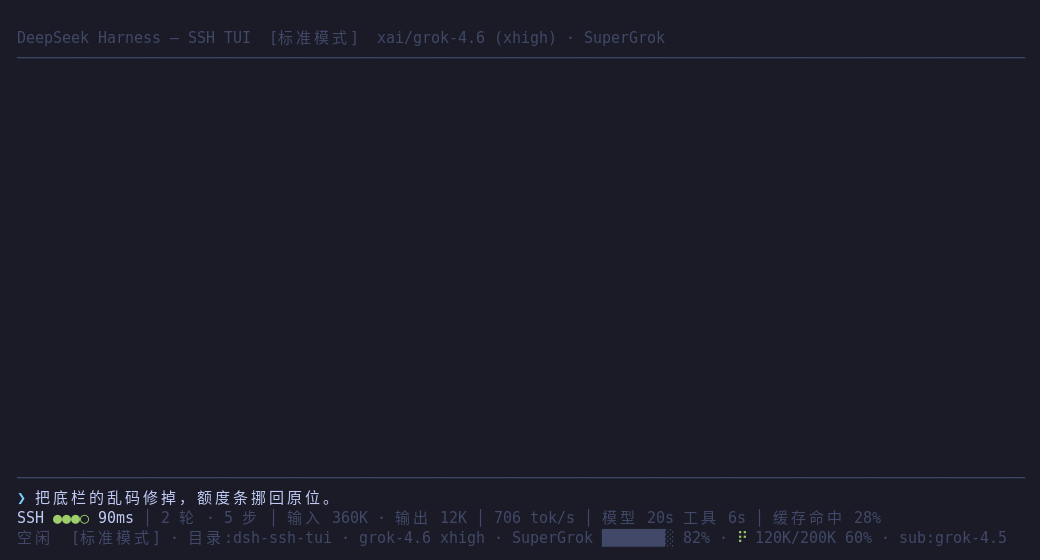
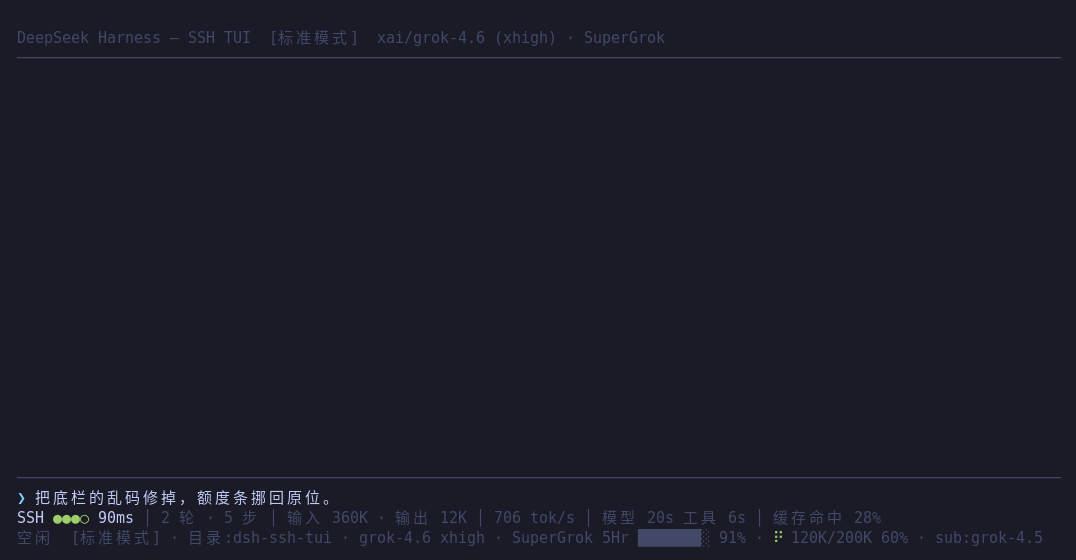
Show the quota window and the model name, not the full route
Three things the status line was spending cells on:

- Quota now shows a short plan badge — `SuperGrok`, `OC·GO` (OpenCode Go),
  `CC·GOAT` (Command Code) — and the window the number belongs to, tagged
  `5Hr`/`1Wk`/`1Mo`. The default window is the *finest* one the provider
  reports, not the tightest percent: a five-hour cap at 3% is what a working
  session hits, and a monthly window at 12% was hiding it. `tightestQuotaWindow`
  still drives the alerts and the refresh cadence. The tags are fixed technical
  strings rather than localized words, so they stay readable in a screenshot.
- Narrowing trades the badge, never the tag: `SuperGrok 5Hr ███ 82%` becomes
  `5Hr ███ 82%`.
- A `provider/model` id (`xai/grok-4.6`) shows as the model name alone. The
  header and `/status` keep the full route, and a `sub:` route keeps its
  provider because it is a different route from the parent's.

Frames: `docs/screenshots/footer-quota.png` (SuperGrok / OC·GO / CC·GOAT /
narrow) and `footer-model-route.png`; the acceptance script renders 10.
Mutations verified red: tightest-instead-of-finest, unnormalized
command-code badge, tag dropped with the badge, weekly tagged `1Mo`, model
route kept, and first-segment extraction.

Changed region(s): [[0.0, 0.85, 0.9538, 0.9714], [0.1846, 0.0607, 0.6462, 0.0911], [0.0308, 0.0607, 0.1538, 0.0911]]

diff --git a/src/footer.ts b/src/footer.ts
@@ -5,7 +5,7 @@
 import { t } from './i18n/index.js'
 import { pinEmojiCells, truncateAnsiToWidth, visibleWidth } from './term-text.js'
 import { describeSubagentFit } from './subagent-model.js'
-import { formatQuotaStatusLine, type QuotaSnapshot } from './quota.js'
+import { formatQuotaStatusLine, type QuotaPeriod, type QuotaSnapshot, type QuotaSource } from './quota.js'
 import type { DisconnectPolicyName } from './transcript-types.js'
 
 export const WAIT_INDICATOR_MS = 8000
@@ -344,6 +344,8 @@ export interface FooterStatusInput {
   subEffort?: string
   quotaCode?: string
   quotaPercent?: number
+  /** Which rolling window `quotaPercent` belongs to: tagged `5Hr`/`1Wk`/`1Mo`. */
+  quotaPeriod?: QuotaPeriod
   contextChip?: string
   balanceText?: string
   search?: { index: number; total: number }
@@ -397,18 +399,40 @@ export function subagentRouteLabel(model: string, provider?: string, effort?: st
   return `sub:${route}${suffix}`
 }
 
+/**
+ * The model as the footer shows it: the model's own name, without a
+ * `provider/model` route prefix.
+ *
+ * Some providers carry the vendor in the model id (`xai/grok-4.6`,
+ * `deepseek-official/deepseek-v4-flash`). The route is worth a row in the header
+ * and in `/status`; in the status line it spent cells on something the reader
+ * already knows, and it pushed the quota badge towards the drop edge.
+ * `sub:` routes keep their provider on purpose — that is a *different* route
+ * from the parent's, and hiding it would make the two indistinguishable.
+ */
+export function shortModelName(model: string): string {
+  const id = model.trim()
+  const slash = id.lastIndexOf('/')
+  if (slash < 0) return id
+  const tail = id.slice(slash + 1).trim()
+  // A trailing slash (or a bare `/`) leaves nothing to show: keep the original.
+  return tail === '' ? id : tail
+}
+
 export function footerIdentityParts(input: FooterStatusInput): string[] {
   const parts: string[] = []
   if (input.compactView === true) parts.push(`[${t('view.footerCompact')}]`)
   if (input.preset !== undefined && input.preset !== '') parts.push(`[${input.preset}]`)
   if (input.cwdLabel !== undefined && input.cwdLabel !== '') parts.push(input.cwdLabel)
-  const model = input.effort === undefined ? input.model : `${input.model} ${input.effort}`
+  const modelName = shortModelName(input.model)
+  const effort = input.effort === undefined || input.effort.trim() === '' ? '' : input.effort.trim()
+  const model = [modelName, effort].filter(part => part !== '').join(' ')
   if (model !== '') parts.push(model)
   if (input.balanceText !== undefined && input.balanceText !== '') {
     parts.push(input.balanceText)
   }
   if (input.quotaPercent !== undefined) {
-    parts.push(formatFooterQuota(input.quotaPercent, input.quotaCode))
+    parts.push(formatFooterQuota(input.quotaPercent, input.quotaCode, input.quotaPeriod))
   }
   if (input.contextChip !== undefined && input.contextChip !== '') parts.push(input.contextChip)
   // The subagent route is what every child inherits, so it is always on the
@@ -424,10 +448,51 @@ export function footerIdentityParts(input: FooterStatusInput): string[] {
   return parts
 }
 
-/** `SuperGrok ███████░ 82%`, or just the bar + percent when `code` is omitted. */
-export function formatFooterQuota(percent: number, code?: string): string {
+/**
+ * `SuperGrok 5Hr ███████░ 82%` — short plan badge, the window the number belongs
+ * to, then the bar.
+ *
+ * The tags are fixed technical labels (`5Hr` / `1Wk` / `1Mo`) rather than
+ * localized words: they sit in a footer that is already fighting for cells, and
+ * a window tag that changes with the locale would be unreadable in a screenshot
+ * or a bug report. Everything else about the window (label, reset time, detail)
+ * stays in `/quota`.
+ */
+export function formatFooterQuota(percent: number, code?: string, period?: QuotaPeriod): string {
   const bar = `${formatQuotaBar(percent)} ${percent.toFixed(0)}%`
-  return code !== undefined && code.trim() !== '' ? `${code.trim()} ${bar}` : bar
+  const tag = quotaWindowTag(period)
+  const name = code === undefined ? '' : code.trim()
+  return [name, tag, bar].filter(part => part !== '').join(' ')
+}
+
+/** Fixed-width tag for the window a footer quota number belongs to. */
+export function quotaWindowTag(period: QuotaPeriod | undefined): string {
+  if (period === 'hourly') return '5Hr'
+  if (period === 'weekly') return '1Wk'
+  if (period === 'monthly') return '1Mo'
+  return ''
+}
+
+/**
+ * The badge the footer shows instead of the billing plan's own label:
+ * `SuperGrok`, `OC·GO` (OpenCode Go), `CC·GOAT` (Command Code Goat).
+ *
+ * The long names live in `/quota`; this one has to survive next to a model id.
+ * Without a `source` (a hand-built snapshot) the plan label is matched instead,
+ * so old callers and tests keep a sensible badge.
+ */
+export function shortQuotaPlanName(snapshot: { plan: string; source?: QuotaSource }): string {
+  const plan = snapshot.plan.trim()
+  if (snapshot.source === 'supergrok') return 'SuperGrok'
+  if (snapshot.source === 'opencode-go') return 'OC·GO'
+  if (snapshot.source === 'command-code') {
+    const tier = plan === '' || plan.toLowerCase() === 'command code' ? '' : plan.toUpperCase()
+    return tier === '' ? 'CC' : `CC·${tier}`
+  }
+  if (/supergrok/iu.test(plan)) return 'SuperGrok'
+  if (/opencode/iu.test(plan)) return 'OC·GO'
+  if (/goat/iu.test(plan)) return 'CC·GOAT'
+  return plan
 }
 
 /**
@@ -438,9 +503,12 @@ export function dropFooterQuotaPlanName(parts: string[]): boolean {
   for (let index = 0; index < parts.length; index++) {
     const part = parts[index]
     if (part === undefined) continue
-    const barAt = part.search(/ [█░]+ \d+%$/)
+    const barAt = part.search(/[█░]{8} \d+%$/)
     if (barAt <= 0) continue
-    parts[index] = part.slice(barAt + 1)
+    // The window tag is the last thing before the bar and survives the badge:
+    // `SuperGrok 5Hr ███ 82%` narrows to `5Hr ███ 82%`, not to a bare bar.
+    const tag = /(?:5Hr|1Wk|1Mo)$/u.exec(part.slice(0, barAt).trimEnd())?.[0]
+    parts[index] = tag === undefined ? part.slice(barAt) : `${tag} ${part.slice(barAt)}`
     return true
   }
   return false

diff --git a/src/quota.ts b/src/quota.ts
@@ -200,6 +200,13 @@ function formatOpenCodeGoWindow(label: string, value: unknown): string {
 
 export type QuotaPeriod = 'hourly' | 'weekly' | 'monthly' | 'unknown'
 
+/**
+ * Which billing surface a snapshot came from. The footer shows a short plan
+ * badge (`SuperGrok` / `OC·GO` / `CC·GOAT`), and the provider string alone is
+ * not enough to tell the three apart.
+ */
+export type QuotaSource = 'supergrok' | 'opencode-go' | 'command-code'
+
 export interface QuotaWindow {
   label: string
   period: QuotaPeriod
@@ -213,6 +220,8 @@ export interface QuotaWindow {
 export interface QuotaSnapshot {
   provider: string
   plan: string
+  /** Billing surface, for the footer's short badge. Absent on hand-built snapshots. */
+  source?: QuotaSource
   windows: QuotaWindow[]
 }
 
@@ -303,6 +312,7 @@ export function parseSuperGrokBilling(payload: unknown): QuotaSnapshot {
   return {
     provider: 'xai',
     plan,
+    source: 'supergrok',
     windows: [{
       label: period === 'monthly' ? t('quota.windowMonthly') : t('quota.windowWeekly'),
       period: period === 'unknown' ? 'weekly' : period,
@@ -331,7 +341,7 @@ export function parseOpenCodeGoQuota(payload: unknown, provider: string): QuotaS
   push(t('quota.windowWeekly'), 'weekly', usage.weekly)
   push(t('quota.windowMonthly'), 'monthly', usage.monthly)
   if (windows.length === 0) throw new Error(t('quota.unrecognized'))
-  return { provider, plan: 'OpenCode Go', windows }
+  return { provider, plan: 'OpenCode Go', source: 'opencode-go', windows }
 }
 
 /** One Command Code rolling window: `{ cap, used, resetAt }` off /alpha/billing/credits. */
@@ -448,7 +458,7 @@ export function parseCommandCodeQuota(payload: CommandCodeQuotaPayload, provider
     })
   }
   if (windows.length === 0) throw new Error(t('quota.unrecognized'))
-  return { provider, plan: commandCodePlanLabel(payload.subscription), windows }
+  return { provider, plan: commandCodePlanLabel(payload.subscription), source: 'command-code', windows }
 }
 
 export function formatQuotaSnapshot(snapshot: QuotaSnapshot): string {
@@ -489,6 +499,25 @@ export function tightestQuotaWindow(snapshot: QuotaSnapshot): QuotaWindow | unde
   return snapshot.windows.reduce<QuotaWindow | undefined>((best, window) => {
     if (best === undefined || window.remainingPercent < best.remainingPercent) return window
     return best
+  }, undefined)
+}
+
+/**
+ * The window the footer shows by default: the *finest* one, not the tightest.
+ *
+ * A five-hour cap is what runs out first inside a working session, so it is the
+ * number a glance should find; a monthly window at 12% would otherwise hide a
+ * five-hour window at 3%. Ties (and a provider that reports only one window)
+ * fall back to the lowest remaining percent.
+ */
+export function preferredQuotaWindow(snapshot: QuotaSnapshot): QuotaWindow | undefined {
+  // `unknown` ranks last, so a provider that reports one unnamed window never
+  // shadows a named one; it is only shown when it is all there is.
+  const rank: Record<QuotaPeriod, number> = { hourly: 0, weekly: 1, monthly: 2, unknown: 3 }
+  return snapshot.windows.reduce<QuotaWindow | undefined>((best, window) => {
+    if (best === undefined) return window
+    if (rank[window.period] !== rank[best.period]) return rank[window.period] < rank[best.period] ? window : best
+    return window.remainingPercent < best.remainingPercent ? window : best
   }, undefined)
 }
 

diff --git a/src/tui.ts b/src/tui.ts
@@ -246,6 +246,7 @@ import {
   footerStatsGroups,
   formatContextPressureChip,
   formatStatusReport,
+  shortQuotaPlanName,
   formatTokens,
   parseContextPressure,
   promptPressureTokens,
@@ -278,6 +279,7 @@ import {
   parseOpenAiCompatibleBalance,
   parseOpenCodeGoQuota,
   parseSuperGrokBilling,
+  preferredQuotaWindow,
   quotaAlertText,
   quotaRefreshEverySteps,
   reasoningEffortsForDefault,
@@ -419,6 +421,9 @@ export {
   formatFooterQuota,
   formatQuotaBar,
   formatStatusReport,
+  quotaWindowTag,
+  shortModelName,
+  shortQuotaPlanName,
   formatTokens,
   formatTokensPerSecond,
   parseContextPressure,
@@ -450,6 +455,7 @@ export {
   parseOpenAiCompatibleBalance,
   parseOpenCodeGoQuota,
   parseSuperGrokBilling,
+  preferredQuotaWindow,
   quotaAlertText,
   quotaRefreshEverySteps,
   quotaRefreshEveryTurns,
@@ -3887,7 +3893,9 @@ export class SshTui {
     const liveGoal = this.rows.findLast((row): row is Extract<Row, { kind: 'goal' }> => row.kind === 'goal')
     const current = this.selectionRef?.current
     const provider = this.currentProviderId()
-    const quotaWindow = this.quotaSnapshot === undefined ? undefined : tightestQuotaWindow(this.quotaSnapshot)
+    // The footer shows the finest window the provider reports (5-hour first),
+    // not the tightest percent: that is the number a working session hits first.
+    const quotaWindow = this.quotaSnapshot === undefined ? undefined : preferredQuotaWindow(this.quotaSnapshot)
     const balanceText = this.balanceSnapshot !== undefined && this.balanceSnapshot.provider === provider
       ? formatFooterBalance(this.balanceSnapshot)
       : undefined
@@ -3924,7 +3932,11 @@ export class SshTui {
       // the loss order for the groups it does own.
       ...(quotaWindow === undefined || this.quotaSnapshot === undefined || this.quotaSnapshot.provider !== provider
         ? {}
-        : { quotaCode: this.quotaSnapshot.plan, quotaPercent: quotaWindow.remainingPercent }),
+        : {
+          quotaCode: shortQuotaPlanName(this.quotaSnapshot),
+          quotaPercent: quotaWindow.remainingPercent,
+          quotaPeriod: quotaWindow.period,
+        }),
       ...(this.contextPressure === undefined
         ? {}
         : { contextChip: formatContextPressureChip(this.contextPressure, false) }),
